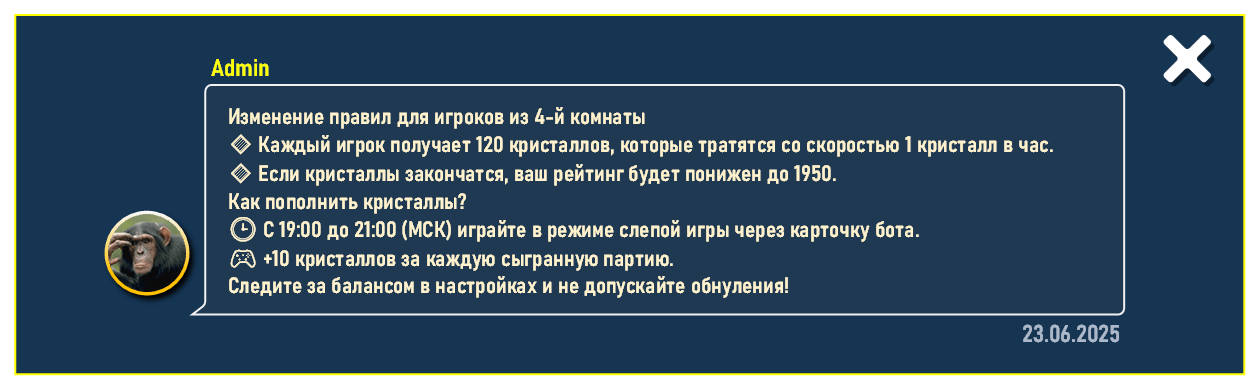
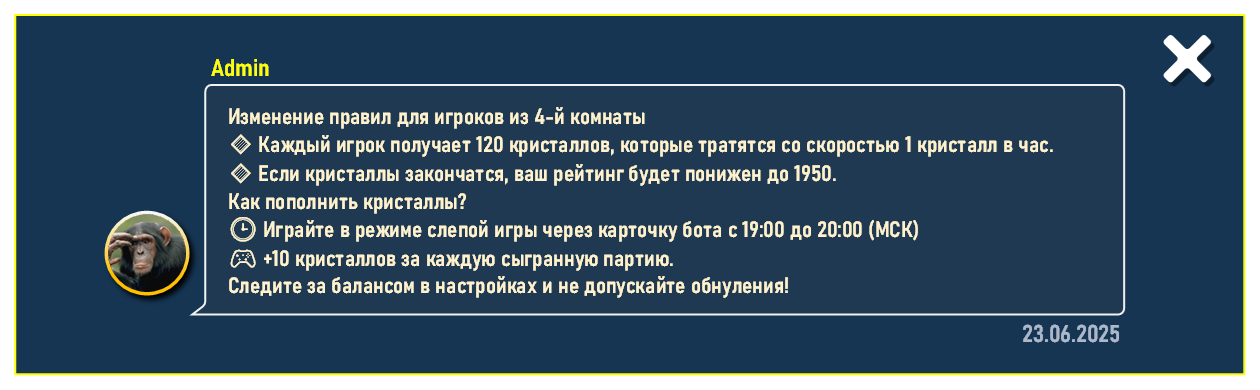
123

Changed region(s): [[0.1857, 0.5538, 0.7429, 0.6154]]

diff --git a/index.js b/index.js
@@ -4389,9 +4389,9 @@ lobby={
 	on:0,
 	global_players:{},
 	req_hist:[],
-	blind_game_calling:0,
 	hide_inst_msg_timer:0,
 	blind_game_search_anim:0,
+	sec_befor_bg:0,
 
 	activate(room,bot_on) {
 
@@ -4936,16 +4936,63 @@ lobby={
 
 	},
 	
+	async run_bg_timer(on){	
+	
+		clearInterval(this.bg_process)
+		let skip_flag=0
+		if (!on) return
+		
+		//получаем время
+		this.sec_befor_bg=await fbs_once('bg/t')
+		
+		//запускаем таймер
+		this.bg_process=setInterval(async ()=>{	
+							
+			this.sec_befor_bg--
+			this.sec_befor_bg=Math.max(0,this.sec_befor_bg)
+			
+			//пропуск
+			if (skip_flag) return
+						
+			//перезапускаем когда 0
+			if (this.sec_befor_bg===0)
+				this.run_bg_timer(1)						
+			
+			//обновляем список участников
+			if(this.sec_befor_bg%10===0){
+				skip_flag=1
+				const bg_data=await fbs_once('bg')
+				skip_flag=0
+				this.sec_befor_bg=bg_data.t
+				if (bg_data?.p){
+					const names=Object.values(bg_data.p).map(p=>p.n).join(' ')
+					objects.invite_bg_players.text='Участники:\n'+names					
+				}
+				return
+			}
+			
+			const minutes = Math.floor(this.sec_befor_bg / 60);
+			const remainingSeconds = this.sec_befor_bg % 60;
+			const formattedMinutes = String(minutes)
+			const formattedSeconds = String(remainingSeconds).padStart(2, '0');			
+			objects.invite_rating.text=formattedMinutes+":"+formattedSeconds	
+
+			//сигнализируем об участии
+			fbs.ref('bg/p/'+my_data.uid).set({n:my_data.name,t:Date.now()})
+			
+		},1000)
+	},
+	
 	show_invite_dlg(uid) {
 
 		anim2.add(objects.invite_cont,{x:[800, objects.invite_cont.sx]}, true, 0.15,'linear');
 
 		//очищаем ожидание на всякий случай
-		if (this.blind_game_calling){			
+		if (this.blind_game_search_anim){			
 			clearInterval(this.blind_game_search_anim)
-			clearInterval(this.blind_game_calling)
-			this.blind_game_calling=0
-			fbs.ref('blind_games/'+my_data.uid).remove()
+			clearInterval(this.bg_process)	
+			this.blind_game_search_anim=0
+			fbs.ref('bg/p/'+my_data.uid).remove()
 		}
 
 		if(uid==='bot'){
@@ -4957,6 +5004,9 @@ lobby={
 			objects.invite_btn.visible=true
 			objects.invite_name.text='Бот'
 			objects.invite_rating.text='1400'
+			objects.invite_no_close.visible=false
+			objects.invite_rating.visible=true
+			objects.invite_bg_players.visible=false
 			this.show_feedbacks(uid)
 			objects.invite_btn.texture=assets.invite_btn
 			objects.invite_btn.pointerdown=()=>{
@@ -4975,21 +5025,32 @@ lobby={
 			objects.fb_delete_btn.visible=false
 			objects.invite_btn.visible=true
 			objects.invite_waiting_anim.visible=false
-			objects.invite_rating.text=''
+			objects.invite_no_close.visible=false
+			objects.invite_rating.visible=false
 			objects.invite_btn.texture=assets.invite_blind_img
-			objects.invite_btn.pointerdown=()=>{
-				if (anim2.any_on()) return
-				if (this.blind_game_calling) return
-				objects.invite_btn.texture=assets.invite_wait_img	
+						
+			//нажатие кнопки
+			objects.invite_btn.pointerdown=()=>{				
 				
+				if (anim2.any_on()) return
+				if (this.blind_game_search_anim) return
+				objects.invite_btn.texture=assets.invite_wait_img	
+				objects.invite_no_close.visible=true
+				objects.invite_rating.visible=true
+				objects.invite_bg_players.visible=true
+				
+				//получаем данные и включаем отсчет
+				this.run_bg_timer(1)
+								
 				//анимация
 				this.blind_game_search_anim=setInterval(()=>{
 					if (!objects.invite_waiting_anim.visible)
 						anim2.add(objects.invite_waiting_anim,{x:[100, 230],alpha:[1,0]},false,0.5,'linear');
 				},2000)
-				this.blind_game_calling=setInterval(()=>{
-					fbs.ref('blind_games/'+my_data.uid).set(1)
-				},2000)
+				
+				//сигнализируем об участии
+				fbs.ref('bg/p/'+my_data.uid).set({n:my_data.name,t:Date.now()})
+				
 			}
 			return
 		}
@@ -5004,7 +5065,10 @@ lobby={
 			objects.invite_waiting_anim.visible=false		
 			objects.invite_btn.visible=true
 			objects.invite_btn.texture=assets.invite_btn
-						
+			objects.invite_no_close.visible=false
+			objects.invite_rating.visible=true
+			objects.invite_bg_players.visible=false
+			
 			objects.invite_btn.visible=uid!==my_data.uid
 			objects.fb_delete_btn.visible=uid===my_data.uid
 						
@@ -5040,11 +5104,11 @@ lobby={
 		sound.play('click');
 
 		//очищаем ожидание на всякий случай
-		if (this.blind_game_calling){		
-			clearInterval(this.blind_game_search_anim)		
-			clearInterval(this.blind_game_calling)
-			this.blind_game_calling=0
-			fbs.ref('blind_games/'+my_data.uid).remove()
+		if (this.blind_game_search_anim){		
+			clearInterval(this.blind_game_search_anim)	
+			clearInterval(this.bg_process)			
+			this.blind_game_search_anim=0			
+			fbs.ref('bg/p/'+my_data.uid).remove()
 		}
 
 		if (!objects.invite_cont.visible) return;
@@ -5172,10 +5236,9 @@ lobby={
 
 		if (objects.td_cont.visible === true)
 			this.close_table_dialog();
-
-		//очищаем ожидание на всякий случай
-		clearInterval(this.blind_game_calling)
-		this.blind_game_calling=0
+		
+		//отключаем таймер
+		this.run_bg_timer(0)
 
 		clearInterval(this.process_timer)
 
@@ -5241,7 +5304,7 @@ lobby={
 		const card0=objects.mini_cards[0]
 		const date = new Date(tm+SERV_TM_DELTA)
 		const msk_hour = parseInt(date.toLocaleString('en-US', {timeZone: 'Europe/Moscow', hour: 'numeric',hour12: false}))
-		const bg_time=msk_hour===19||msk_hour===20
+		const bg_time=msk_hour===18||msk_hour===19
 		
 		if (card0.type==='bot'&&bg_time){
 			card0.type='blind_game'
@@ -5259,18 +5322,9 @@ lobby={
 
 	},
 
-	start_random_game_wait(){
-
-		//сигнализируем о нашем желании сыграть
-		this.blind_game_calling=setInterval(()=>{
-			fbs.ref('blind_games/'+my_data.uid).set(1)
-		},2000)
-
-	},
-
 	async blind_game_call(data){
 	
-		if (!this.blind_game_calling)
+		if (!this.blind_game_search_anim)
 			return
 		
 		//закрываем меню и начинаем игру
@@ -5284,27 +5338,6 @@ lobby={
 
 		mp_game.activate(data.r?'master':'slave',data.s,1)
 		
-	},
-
-	peek_down(){
-
-		if (anim2.any_on()) {
-			sound.play('locked');
-			return
-		};
-		sound.play('click');
-		this.close();
-
-		//активируем просмотр игры
-		game_watching.activate(objects.td_cont.card);
-	},
-
-	async switch_header(){
-
-		await anim2.add(objects.lobby_header,{y:[objects.lobby_header.sy, -60],alpha:[1,0]},false,1,'linear',false);
-		objects.lobby_header.text=this.sw_header.header_list[this.sw_header.index];
-		anim2.add(objects.lobby_header,{y:[-60,objects.lobby_header.sy],alpha:[0,1]},true,1,'linear',false);
-
 	},
 
 	wheel_event(dir) {
@@ -6204,7 +6237,7 @@ async function init_game_env(l) {
 
 	//ИД моего клиента и сообщение для дубликатов (если не совпадет то выключаем)
 	client_id = irnd(10,999999);
-	fbs.ref('inbox/'+my_data.uid).set({message:'CLIEND_ID',tm:Date.now(),client_id});
+	fbs.ref('inbox/'+my_data.uid).set({message:'CLIENT_ID',tm:Date.now(),client_id});
 
 	//отключение от игры и удаление не нужного
 	fbs.ref('inbox/'+my_data.uid).onDisconnect().remove();
